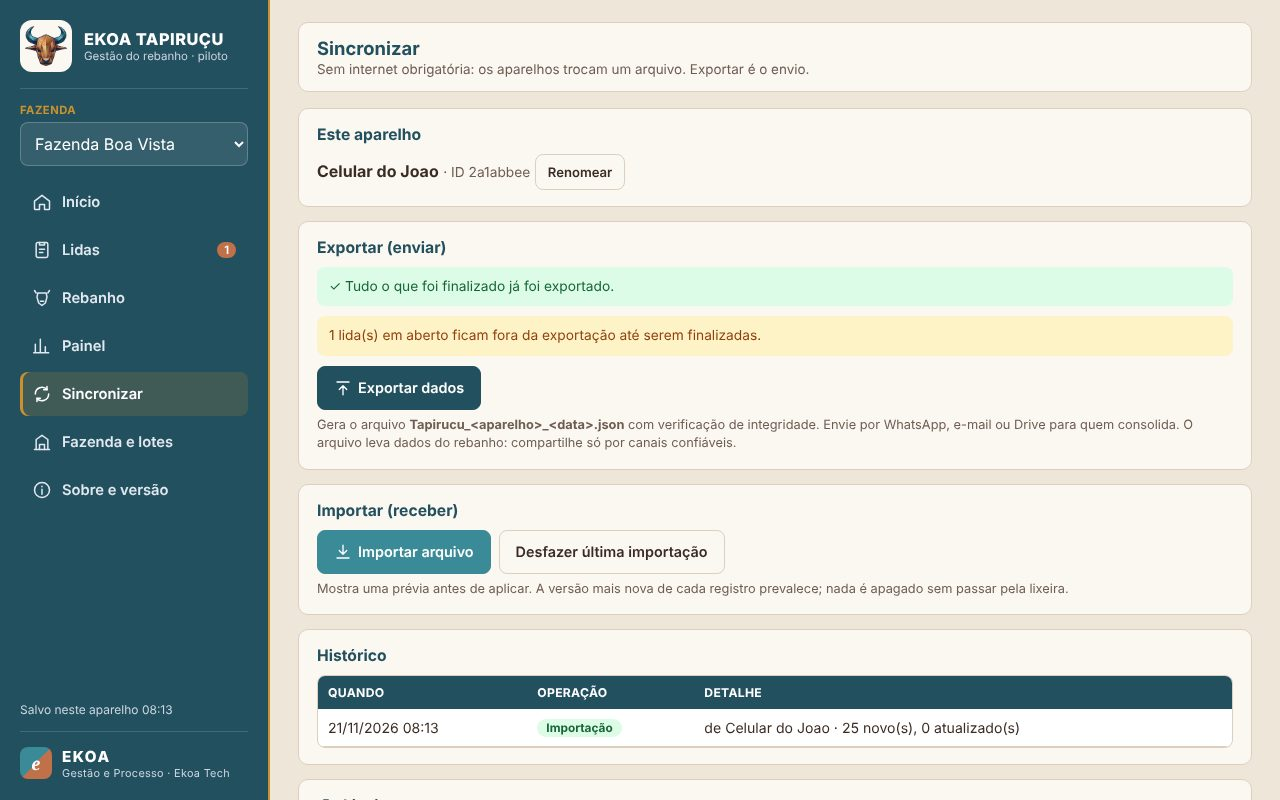
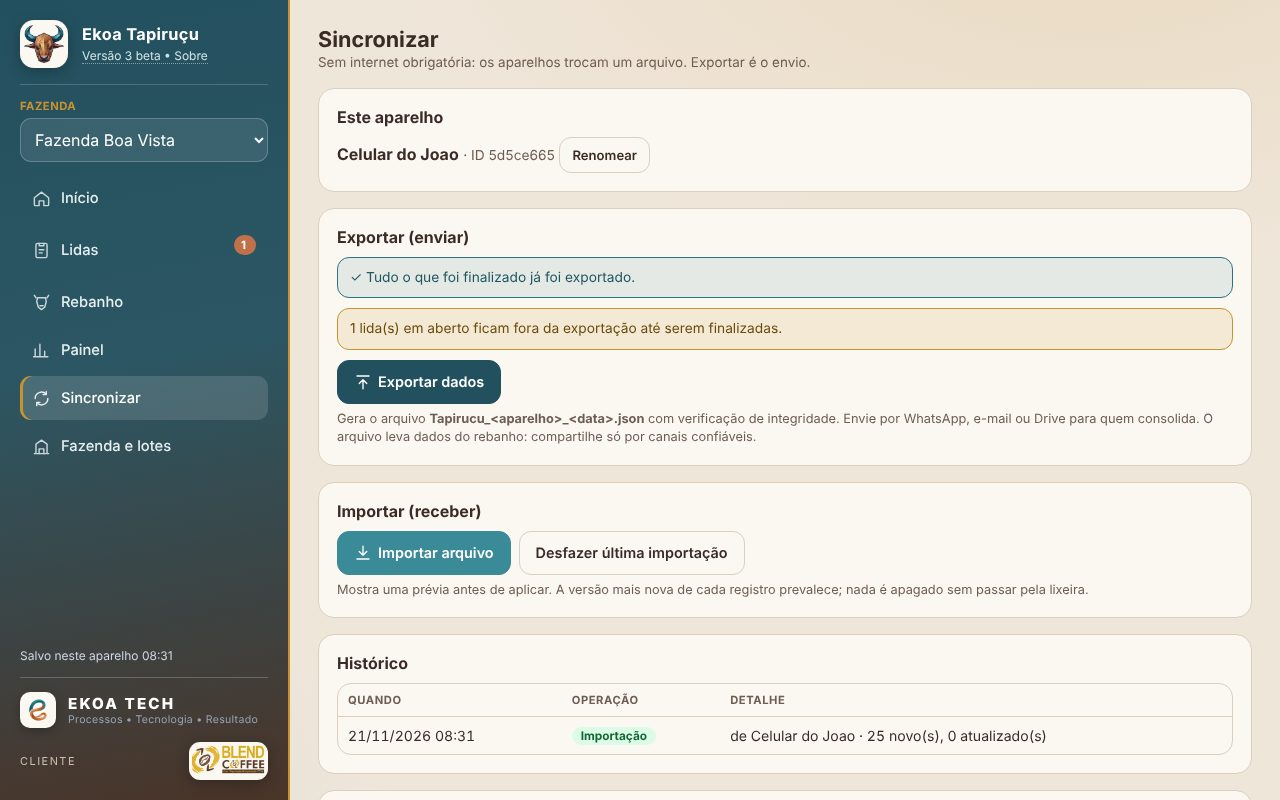
v3 beta: identidade visual Ekoa Saber
Abertura clara com a logo, menu em degradê petróleo → café com rodapé
Ekoa Tech e bloco Cliente (Blendcoffee), início com hero e cartões,
indicadores em blocos, tabelas leves, botões e modais arredondados.
Movimento conforme o padrão Ekoa (só abertura, modais, avisos e hover).

Claude-Session: https://claude.ai/code/session_01LdUxnbAW845twt8urmyqad

Changed region(s): [[0.0, 0.0, 1.0, 1.0], [0.0312, 0.5938, 0.125, 0.625]]

diff --git a/index.html b/index.html
@@ -22,6 +22,7 @@
 body{background:var(--bg-body);color:var(--text-primary);display:flex;min-height:100vh;overflow-x:hidden}
 button,input,select,textarea{font-size:16px;color:inherit}
 :focus-visible{outline:3px solid var(--brand-gold);outline-offset:2px}
+[hidden]{display:none!important}
 .sr{position:absolute;width:1px;height:1px;overflow:hidden;clip:rect(0 0 0 0)}
 
 /* Splash */
@@ -207,15 +208,127 @@ td .btn.sm{min-height:34px}
   .modal-box{max-height:94vh;border-radius:14px 14px 0 0}
   .hide-m{display:none}
   .entry .btn{flex:1 1 100%}
-  .hero{grid-template-columns:1fr 1fr;gap:10px}
-  .tile{min-height:92px;padding:12px}
-  .tile.main-act{grid-column:1/-1;min-height:84px}
-  .tile span{font-size:.76rem}
   .kpis{grid-template-columns:1fr 1fr}
 }
 @media (min-width:901px){.only-m{display:none!important}}
 @media print{.sidebar,.mobile-header,.bottom-nav,#toast,.actions,.toolbar{display:none!important}.main{padding:0}}
 @media (prefers-reduced-motion:reduce){*{transition:none!important}}
+/* ===== Identidade Ekoa Saber aplicada ao Tapiruçu (paleta Ekoa: petróleo, ouro, cobre, café, sálvia, areia) ===== */
+:root{--petrol:#23505F;--teal:#3B8A97;--sage:#8FB8A0;--gold:#C9922E;--copper:#C0714A;--coffee:#6B4A32;
+  --ek-dur-micro:120ms;--ek-dur-base:200ms;--ek-dur-panel:280ms;--ek-ease-out:cubic-bezier(.2,.8,.2,1);--ek-ease-in:cubic-bezier(.4,0,1,1)}
+body{background:radial-gradient(1200px 600px at 85% -10%,rgba(201,146,46,.14),transparent 60%),radial-gradient(900px 600px at -10% 110%,rgba(59,138,151,.14),transparent 60%),var(--bg-body);background-attachment:fixed}
+/* abertura */
+#splash{background:linear-gradient(160deg,#EFE6DA,#DCE6E6 55%,#E9D3C0);color:#13234A;gap:14px;transition:opacity 500ms var(--ek-ease-out),visibility 500ms}
+#splash.off{visibility:hidden}
+#splash img{width:150px;height:150px;background:none;border-radius:0;padding:0;filter:drop-shadow(0 12px 22px rgba(35,80,95,.22));animation:pop 600ms var(--ek-ease-out) both}
+#splash b{font:800 1.7rem/1 Montserrat,"Segoe UI",system-ui,sans-serif;color:#13234A;letter-spacing:.06em;margin-top:6px}
+#splash span{font:600 .72rem system-ui,sans-serif;letter-spacing:.2em;color:#C0714A}
+#splash em{margin-top:22px;font:500 .74rem system-ui,sans-serif;font-style:normal;letter-spacing:.14em;color:#6E5D52}
+#splash em strong{color:#13234A;letter-spacing:.2em}
+/* menu lateral */
+.sidebar{width:290px;background:linear-gradient(170deg,#23505F 0%,#2C5663 45%,#4A3428 100%);border-right:2px solid var(--gold)}
+.brand{gap:14px;border-bottom-color:rgba(255,255,255,.18)}
+.brand img,.mobile-header img{background:#FBF7F1;object-fit:contain;flex-shrink:0;box-shadow:0 4px 14px rgba(0,0,0,.25)}
+.brand img{width:48px;height:48px;border-radius:14px;padding:4px}
+.brand h1{font-size:1.02rem;font-weight:700;letter-spacing:.02em}
+.about-link{color:#cfe3e6;text-decoration:none;border-bottom:1px dotted rgba(255,255,255,.45);font-size:.75rem}
+.farm-pick select{border-radius:11px}
+.side-nav{margin:14px 0 18px}
+.side-nav button{border-radius:11px;padding:11px 12px;color:#e6eef0;font-weight:500;transition:background-color var(--ek-dur-micro)}
+.side-nav button svg{width:19px;height:19px;opacity:.85}
+.side-nav button.on{background:rgba(255,255,255,.14);color:#fff;box-shadow:inset 3px 0 0 var(--gold)}
+.side-nav .count{background:rgba(255,255,255,.16);border-radius:99px;min-width:22px;padding:0 7px;line-height:20px;text-align:center;font-weight:700}
+.side-nav .count.alert{background:var(--copper)}
+.ekoa-footer{border-top-color:rgba(255,255,255,.22);gap:12px}
+.ekoa-mark{width:36px;height:36px;border-radius:10px;background:#FBF7F1;padding:2px;object-fit:contain;flex-shrink:0;box-shadow:0 3px 10px rgba(0,0,0,.25)}
+.ekoa-text{letter-spacing:.14em;font-weight:800;font-size:.95rem;display:block}
+.ekoa-sub{font-size:.66rem;color:#94a3b8;white-space:nowrap}
+.client-row{display:flex;align-items:center;justify-content:space-between;gap:10px;margin-top:14px;font-size:.68rem;letter-spacing:.14em;text-transform:uppercase;color:#cbbfae}
+.blend-slot{display:inline-flex;align-items:center;justify-content:center;height:38px;min-width:38px;padding:3px;border-radius:11px;background:#FBF7F1;box-shadow:0 4px 14px rgba(0,0,0,.25)}
+.blend-slot img{height:100%;max-width:132px;object-fit:contain}
+.blend-fb{display:none;flex-direction:column;align-items:center;justify-content:center;width:100%;height:100%;border-radius:10px;background:#111827;line-height:1.1;padding:0 6px}
+.blend-fb b{color:#C9922E;font-size:9px;letter-spacing:.05em}.blend-fb i{color:#cbd5e1;font-size:7px;font-style:normal;letter-spacing:.12em}
+.saved-ind{margin-bottom:6px}
+/* topo do celular */
+.mobile-header{background:linear-gradient(90deg,#23505F,#3a5560 60%,#5a4030);border-bottom:2px solid var(--gold)}
+.mobile-header img{width:38px;height:38px;border-radius:11px;padding:3px}
+.mobile-header b{font-weight:700;letter-spacing:.02em}
+.bottom-nav{backdrop-filter:blur(10px);background:rgba(251,247,241,.94)}
+/* início (hero e cartões do Ekoa Saber) */
+.home-hero{display:flex;align-items:center;gap:20px;margin:8px 0 22px}
+.home-mark{width:92px;height:92px;object-fit:contain;flex-shrink:0;filter:drop-shadow(0 10px 18px rgba(35,80,95,.2))}
+.home-title{font-size:2rem;font-weight:800;letter-spacing:.01em;color:#13234A;line-height:1.1}
+.home-sub{margin-top:4px;font-size:.78rem;font-weight:600;letter-spacing:.12em;text-transform:uppercase;color:var(--copper)}
+.home-farm{margin-top:8px;font-size:.92rem;color:var(--text-secondary)}
+.home-farm b{color:var(--text-primary)}
+.beta{display:inline-block;margin-left:6px;padding:1px 7px;border-radius:99px;background:var(--gold);color:#fff;font-size:.62rem;letter-spacing:.08em;vertical-align:middle}
+.home-grid{display:grid;grid-template-columns:repeat(auto-fit,minmax(200px,1fr));gap:16px;margin-bottom:16px}
+.home-card{display:flex;flex-direction:column;align-items:flex-start;gap:8px;min-height:160px;padding:22px;border-radius:18px;border:1px solid var(--border-color);background:var(--bg-surface);color:var(--text-primary);font:inherit;text-align:left;cursor:pointer;transition:transform var(--ek-dur-micro) var(--ek-ease-out),box-shadow var(--ek-dur-base),border-color var(--ek-dur-micro)}
+.home-card:hover{transform:translateY(-3px);box-shadow:0 14px 32px rgba(35,80,95,.16);border-color:var(--teal)}
+.home-card:active{transform:scale(.98)}
+.home-card.primary{background:linear-gradient(150deg,#23505F,#2E6672 55%,#5a4030);color:#fff;border-color:transparent}
+.home-card.primary .hc-d{color:#d9e6e8}
+.hc-ico{display:inline-flex;align-items:center;justify-content:center;width:44px;height:44px;border-radius:13px;background:var(--row-hover);color:var(--teal)}
+.home-card.primary .hc-ico{background:rgba(255,255,255,.14);color:#F0C77A}
+.hc-ico svg{width:22px;height:22px}
+.hc-t{margin-top:auto;font-size:1.08rem;font-weight:700}
+.hc-d{font-size:.84rem;line-height:1.4;color:var(--text-secondary)}
+#installBox{margin-bottom:16px;padding:14px 16px;border-radius:14px;background:var(--bg-surface);border:1px solid var(--teal);align-items:center;justify-content:space-between;gap:14px;flex-wrap:wrap}
+/* indicadores (tiles do Ekoa Saber) */
+.kpis{gap:12px;margin-bottom:16px}
+.kpi{padding:14px 16px;border-radius:14px;border:1px solid var(--border-color);border-left-width:4px}
+.kpi small{font-size:.74rem}
+.kpi b{display:block;font-size:1.6rem;font-weight:800;margin-top:4px;color:var(--text-primary);font-variant-numeric:tabular-nums;line-height:1.15}
+.kpi em{font-size:.72rem;margin-top:2px}
+/* cabeçalho das telas */
+.topbar{background:transparent;border:0;box-shadow:none;padding:0;margin:4px 0 18px}
+.topbar h2{font-size:1.35rem;color:var(--text-primary)}
+.topbar p{font-size:.84rem}
+/* cartões, botões, campos */
+.card{border-radius:16px;padding:18px;margin-bottom:16px}
+.card h3{color:var(--text-primary);font-size:1rem}
+.btn{border-radius:12px;transition:transform var(--ek-dur-micro) var(--ek-ease-out),box-shadow var(--ek-dur-base),background-color var(--ek-dur-micro),border-color var(--ek-dur-micro)}
+.btn:hover{transform:translateY(-1px);box-shadow:0 6px 16px rgba(35,80,95,.18)}
+.btn:active{transform:scale(.96)}
+.btn.gold{color:#fff}
+.field input,.field select,.field textarea,.toolbar input,.toolbar select{border-radius:11px;background:var(--bg-surface)}
+input:focus,select:focus,textarea:focus{outline:none;border-color:var(--teal)!important;box-shadow:0 0 0 3px rgba(59,138,151,.22)}
+.entry{border-radius:14px}
+.type-btn{border-radius:16px}
+.lida-item{border-radius:14px;background:var(--bg-surface);transition:border-color var(--ek-dur-micro),box-shadow var(--ek-dur-base)}
+.lida-item:hover{background:var(--bg-surface);box-shadow:0 6px 16px rgba(35,80,95,.12)}
+.alert{border-radius:12px}
+.alert.warn{background:rgba(201,146,46,.14);color:#6b4a0c;border:1px solid var(--gold)}
+.alert.info{background:rgba(59,138,151,.10);color:#1d5660;border:1px solid rgba(59,138,151,.35)}
+.alert.ok{background:rgba(42,116,128,.10);color:#1d5660;border:1px solid #2A7480}
+/* tabelas no estilo leve do Ekoa Saber */
+.tbl-wrap{border-radius:14px;background:var(--bg-surface)}
+th{background:transparent;color:var(--text-secondary);font-size:.7rem;letter-spacing:.05em;font-weight:700;border-bottom:1px solid var(--border-color)}
+td{font-variant-numeric:tabular-nums}
+tr:nth-child(even) td{background:transparent}
+tbody tr:last-child td{border-bottom:0}
+/* modal, toast, atualização (movimento só de estado e continuidade) */
+.modal{backdrop-filter:blur(6px)}
+.modal.open .modal-box{animation:pop var(--ek-dur-panel) var(--ek-ease-out) both}
+.modal-box{border-radius:20px}
+.modal-head,.modal-foot{background:var(--bg-surface)}
+#toast{background:#1c2a30;border-radius:12px;transition:opacity var(--ek-dur-base) var(--ek-ease-out),transform var(--ek-dur-base) var(--ek-ease-out)}
+#toast .t-act{background:none;color:#F0C77A;text-decoration:underline}
+#updateBar{background:linear-gradient(90deg,#23505F,#2E6672);color:#fff;border:0;border-radius:14px}
+#updateBar .btn.gold{color:#fff}
+@keyframes pop{from{opacity:0;transform:translateY(16px) scale(.97)}to{opacity:1;transform:none}}
+::-webkit-scrollbar{width:10px;height:10px}::-webkit-scrollbar-thumb{background:#c9b8a4;border-radius:8px;border:2px solid transparent;background-clip:content-box}
+@media (max-width:900px){
+  .home-hero{gap:14px;margin-bottom:18px}.home-mark{width:64px;height:64px}.home-title{font-size:1.5rem}
+  .home-sub{font-size:.66rem;letter-spacing:.08em}.home-farm{margin-top:4px}
+  .home-grid{grid-template-columns:1fr 1fr;gap:10px}.home-card{min-height:128px;padding:16px}
+  .home-card.primary{grid-column:1/-1;min-height:112px}
+  .home-card.hide-m{display:none}
+  .hc-d{font-size:.78rem}
+  .kpi b{font-size:1.3rem}
+  .card{padding:14px}
+}
+@media (prefers-reduced-motion:reduce){*,*::before,*::after{animation:none!important;transition:none!important}}
 </style>
 </head>
 <body data-view="home">
@@ -244,16 +357,16 @@ td .btn.sm{min-height:34px}
 <header class="mobile-header">
   <div class="mh-left" onclick="goView('home')" style="cursor:pointer">
     <img src="assets/tapirucu-logo.png" alt="Ekoa Tapiruçu - Início">
-    <div><b>TAPIRUÇU</b><small id="mFarm">—</small></div>
+    <div><b>Ekoa Tapiruçu</b><small id="mFarm">—</small></div>
   </div>
   <span class="saved-ind" id="mSaved" style="color:#cbd5e1"></span>
 </header>
 
 <aside class="sidebar" aria-label="Menu">
   <div>
-    <div class="brand" onclick="goView('home')" style="cursor:pointer">
-      <img src="assets/tapirucu-logo.png" alt="Ekoa Tapiruçu">
-      <div><h1>EKOA TAPIRUÇU</h1><p>Gestão do rebanho · piloto</p></div>
+    <div class="brand">
+      <img src="assets/tapirucu-logo.png" alt="Ekoa Tapiruçu - Início" onclick="goView('home')" style="cursor:pointer">
+      <div><h1>Ekoa Tapiruçu</h1><a href="#" class="about-link" onclick="event.stopPropagation();openAbout();return false;">Versão <span class="app-ver"></span> beta • Sobre</a></div>
     </div>
     <div class="farm-pick"><label for="farmSel">Fazenda</label><select id="farmSel" onchange="setFarm(this.value)"></select></div>
     <nav class="side-nav">
@@ -263,12 +376,12 @@ td .btn.sm{min-height:34px}
       <button data-nav="painel" onclick="goView('painel')"><svg><use href="#i-painel"/></svg><span>Painel</span></button>
       <button data-nav="sync" onclick="goView('sync')"><svg><use href="#i-sync"/></svg><span>Sincronizar</span><span class="count" id="cPend" hidden></span></button>
       <button data-nav="cadastros" onclick="goView('cadastros')"><svg><use href="#i-cad"/></svg><span>Fazenda e lotes</span></button>
-      <button data-nav="sobre" onclick="openAbout()"><svg><use href="#i-info"/></svg><span>Sobre e versão</span></button>
     </nav>
   </div>
   <div>
     <p class="saved-ind" id="dSaved" style="color:#cbd5e1"></p>
-    <div class="ekoa-footer"><div class="ekoa-icon">e</div><div><span class="ekoa-text">EKOA</span><span class="ekoa-sub">Gestão e Processo · Ekoa Tech</span></div></div>
+    <div class="ekoa-footer"><img class="ekoa-mark" src="icons/ekoa-mark.png" alt="Ekoa"><div><span class="ekoa-text">EKOA TECH</span><span class="ekoa-sub">Processos • Tecnologia • Resultado</span></div></div>
+    <div class="client-row"><span>Cliente</span><span class="blend-slot"><img src="icons/logo-blend.png" alt="Blendcoffee" onerror="this.style.display='none';this.nextElementSibling.style.display='flex'"><span class="blend-fb"><b>BLEND</b><i>COFFEE</i></span></span></div>
   </div>
 </aside>
 
@@ -276,20 +389,25 @@ td .btn.sm{min-height:34px}
   <div id="updateBar" role="status"></div>
 
   <!-- INÍCIO -->
-  <section class="view" id="v-home" aria-labelledby="hTitle">
-    <div class="topbar">
-      <div><h2 id="hTitle">Bom trabalho no campo</h2><p id="hSub">Tudo o que você lança fica salvo neste aparelho, mesmo sem internet.</p></div>
-      <div id="installBox" class="actions"><span class="muted" id="installHint" style="align-self:center"></span><button class="btn gold" id="installBtn" onclick="installApp()">Instalar app</button></div>
+  <section class="view" id="v-home" aria-label="Início">
+    <div class="home-hero">
+      <img class="home-mark" src="assets/tapirucu-logo.png" alt="">
+      <div>
+        <h1 class="home-title">Ekoa Tapiruçu</h1>
+        <p class="home-sub">Gestão do rebanho &bull; Ekoa Tech <b class="beta">BETA</b></p>
+        <p class="home-farm" id="hFarm"></p>
+      </div>
     </div>
+    <div id="installBox"><div><b>Instale o app</b><br><span class="muted" id="installHint"></span></div><button class="btn gold" id="installBtn" onclick="installApp()">Instalar app</button></div>
     <div id="homeAlerts"></div>
-    <div class="hero">
-      <button class="tile main-act" onclick="newLida()"><svg><use href="#i-lida"/></svg><b>Nova lida</b><span>Pesagem, sanitário, troca de lote, baixa ou nascimento</span></button>
-      <button class="tile" onclick="goView('rebanho')"><svg><use href="#i-rebanho"/></svg><b>Rebanho</b><span id="tRebanho">Animais e lotes</span></button>
-      <button class="tile" onclick="goView('painel')"><svg><use href="#i-painel"/></svg><b>Painel</b><span>Peso, GMD, lotação e alertas</span></button>
-      <button class="tile" onclick="goView('sync')"><svg><use href="#i-sync"/></svg><b>Sincronizar</b><span id="tSync">Exportar e importar dados</span></button>
+    <div class="home-grid">
+      <button class="home-card primary" onclick="newLida()"><span class="hc-ico"><svg><use href="#i-lida"/></svg></span><span class="hc-t">Nova lida</span><span class="hc-d">Pesagem, sanitário, troca de lote, baixa ou nascimento</span></button>
+      <button class="home-card" onclick="goView('rebanho')"><span class="hc-ico"><svg><use href="#i-rebanho"/></svg></span><span class="hc-t">Rebanho</span><span class="hc-d" id="tRebanho">Animais e lotes</span></button>
+      <button class="home-card" onclick="goView('painel')"><span class="hc-ico"><svg><use href="#i-painel"/></svg></span><span class="hc-t">Painel</span><span class="hc-d">Peso, GMD, lotação e alertas</span></button>
+      <button class="home-card hide-m" onclick="goView('sync')"><span class="hc-ico"><svg><use href="#i-sync"/></svg></span><span class="hc-t">Sincronizar</span><span class="hc-d" id="tSync">Exportar e importar dados</span></button>
     </div>
     <div class="kpis" id="homeKpis"></div>
-    <div class="card"><h3>Últimas lidas</h3><div id="homeLidas"></div></div>
+    <div class="card"><h3>Últimas lidas</h3><div id="homeLidas" style="margin-top:10px"></div></div>
   </section>
 
   <!-- LIDAS -->
@@ -388,7 +506,7 @@ td .btn.sm{min-height:34px}
    PWA offline-first. Dados no IndexedDB do aparelho. Sem dependências.
    Mudar APP_VERSION junto com sw.js (V) e version.json a cada publicação.
    ========================================================================= */
-const APP_VERSION = 2;
+const APP_VERSION = 3;
 const APP_ID = 'ekoa-tapirucu';
 const SYNC_FORMAT = 1;
 const DB_NAME = 'ekoa_tapirucu';     // identificador estável: não alterar
@@ -558,6 +676,7 @@ function pendentesCount() {
 function updateCounts() {
   const ab = lidasF().filter(l => l.status === 'aberta').length, pd = pendentesCount();
   [['cAbertas', ab], ['bAbertas', ab], ['cPend', pd], ['bPend', pd]].forEach(([id, n]) => { const e = $(id); if (e) { e.hidden = !n; e.textContent = n; } });
+  const ca = $('cAbertas'); if (ca) ca.classList.add('alert');
 }
 
 /* ---------------- Modal ---------------- */
@@ -586,14 +705,12 @@ function showToastAction(msg, label, fn) { const t = $('toast'); t.innerHTML = `
 function renderHome() {
   const f = farm(), al = $('homeAlerts');
   if (!f) {
-    $('hTitle').textContent = 'Bem-vindo ao Ekoa Tapiruçu';
-    $('hSub').textContent = 'Comece cadastrando a fazenda. Depois os lotes e os animais.';
+    $('hFarm').innerHTML = 'Comece cadastrando a fazenda. Depois os lotes e os animais.';
     al.innerHTML = `<div class="alert info"><span>Nenhuma fazenda cadastrada neste aparelho. Se outro aparelho já tem os dados, importe o arquivo de sincronização.</span></div>
       <div class="actions" style="margin-bottom:14px"><button class="btn primary" onclick="openFarm()">Cadastrar fazenda</button><button class="btn" onclick="goView('sync')">Importar arquivo</button></div>`;
     $('homeKpis').innerHTML = ''; $('homeLidas').innerHTML = '<div class="empty">Nenhuma lida ainda.</div>'; return;
   }
-  $('hTitle').textContent = f.nome;
-  $('hSub').textContent = 'Tudo o que você lança fica salvo neste aparelho, mesmo sem internet.';
+  $('hFarm').innerHTML = `<b>${esc(f.nome)}</b><span class="hide-m"> · os lançamentos ficam salvos neste aparelho, mesmo sem internet</span>`;
   const st = Object.values(compute()), at = st.filter(x => x.ativo);
   const ab = lidasF().filter(l => l.status === 'aberta'), pd = pendentesCount();
   let h = '';
@@ -1441,7 +1558,7 @@ function showUpdateBar() {
   bar.innerHTML = `<span><b>Nova versão ${esc(remoteInfo.rotulo || remoteInfo.versao)} disponível.</b> ${esc(remoteInfo.titulo || '')}</span><span class="actions"><button class="btn gold" onclick="applyUpdate()">Atualizar agora</button></span>`;
   bar.classList.add('on');
 }
-const SHELL = ['./', './index.html', './manifest.json', './icons/icon-192.png', './icons/icon-512.png', './icons/apple-touch-icon.png', './assets/tapirucu-logo.png'];
+const SHELL = ['./', './index.html', './manifest.json', './icons/icon-192.png', './icons/icon-512.png', './icons/apple-touch-icon.png', './assets/tapirucu-logo.png', './icons/ekoa-mark.png', './icons/logo-blend.png'];
 async function applyUpdate() {
   const bar = $('updateBar'); bar.innerHTML = '<span><b>Atualizando…</b> seus dados permanecem salvos neste aparelho.</span>';
   try {
@@ -1471,6 +1588,7 @@ async function init() {
     const m = await idbGet('syncMeta'); if (m && typeof m === 'object') syncMeta = Object.assign(syncMeta, m);
   } catch (e) { alert('Este navegador bloqueou o armazenamento local (modo anônimo?). Os dados não serão guardados.'); }
   if (!farm() && S.fazendas.length) S.fazendaAtiva = S.fazendas[0].id;
+  document.querySelectorAll('.app-ver').forEach(e => e.textContent = APP_VERSION);
   renderFarmSel(); updateCounts(); refreshInstallUI(); goView('home');
   setTimeout(() => $('splash').classList.add('off'), 450);
   if (navigator.storage && navigator.storage.persist) { try { await navigator.storage.persist(); } catch (e) {} }

diff --git a/sw.js b/sw.js
@@ -1,7 +1,7 @@
 /* Service Worker — cache do app para uso offline.
    Ao publicar uma nova versão: troque o número em V, APP_VERSION no index.html e o version.json. */
-const V = 'ekoa-tapirucu-v2';
-const SHELL = ['./', './index.html', './manifest.json', './icons/icon-192.png', './icons/icon-512.png', './icons/apple-touch-icon.png', './assets/tapirucu-logo.png'];
+const V = 'ekoa-tapirucu-v3';
+const SHELL = ['./', './index.html', './manifest.json', './icons/icon-192.png', './icons/icon-512.png', './icons/apple-touch-icon.png', './assets/tapirucu-logo.png', './icons/ekoa-mark.png', './icons/logo-blend.png'];
 
 self.addEventListener('install', e => {
   // cache: 'reload' evita gravar no cache uma cópia antiga vinda do cache HTTP do navegador

diff --git a/CHANGELOG.md b/CHANGELOG.md
@@ -2,6 +2,11 @@
 
 Todas as mudanças relevantes do Ekoa Tapiruçu. A versão publicada fica em [`version.json`](version.json), e o próprio app avisa quando há atualização.
 
+## [3 beta] · 21/11/2026 · Visual Ekoa Saber
+- Identidade visual do Ekoa Saber: abertura clara com a logo, menu em degradê petróleo → café, início com logo e cartões, indicadores em blocos, tabelas leves, botões e modais arredondados.
+- Rodapé do menu com a marca Ekoa Tech e o bloco Cliente (Blendcoffee).
+- Movimento conforme o padrão Ekoa: só abertura, modais, avisos e hover; nada anima ao trocar de tela.
+
 ## [2 beta] · 21/11/2026 · Logo oficial do Tapiruçu
 - Logo oficial aplicada na abertura, no menu, no topo do celular, no "Sobre" e nos ícones do app instalado.
 - A logo entra no cache offline.

diff --git a/README.md b/README.md
@@ -6,7 +6,7 @@
 
 **Registre o manejo do rebanho no campo, mesmo sem internet, e acompanhe peso, ganho diário, lotação e alertas de cada lote.**
 
-[![Versão](https://img.shields.io/badge/vers%C3%A3o-2%20beta-C9922E?style=flat-square)](CHANGELOG.md)
+[![Versão](https://img.shields.io/badge/vers%C3%A3o-3%20beta-C9922E?style=flat-square)](CHANGELOG.md)
 [![Fase](https://img.shields.io/badge/fase-1%20%C2%B7%20piloto-3B8A97?style=flat-square)](#onde-o-piloto-se-encaixa)
 [![PWA](https://img.shields.io/badge/PWA-instal%C3%A1vel-23505F?style=flat-square)](#instalação)
 [![Offline](https://img.shields.io/badge/funciona-offline-3B8A97?style=flat-square)](#princípios-de-engenharia)
